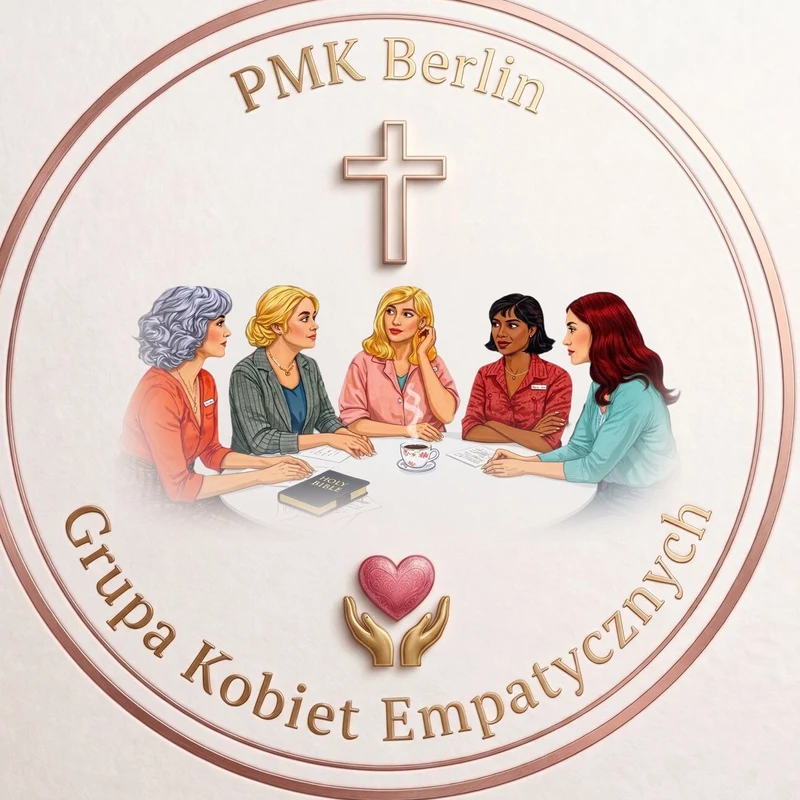
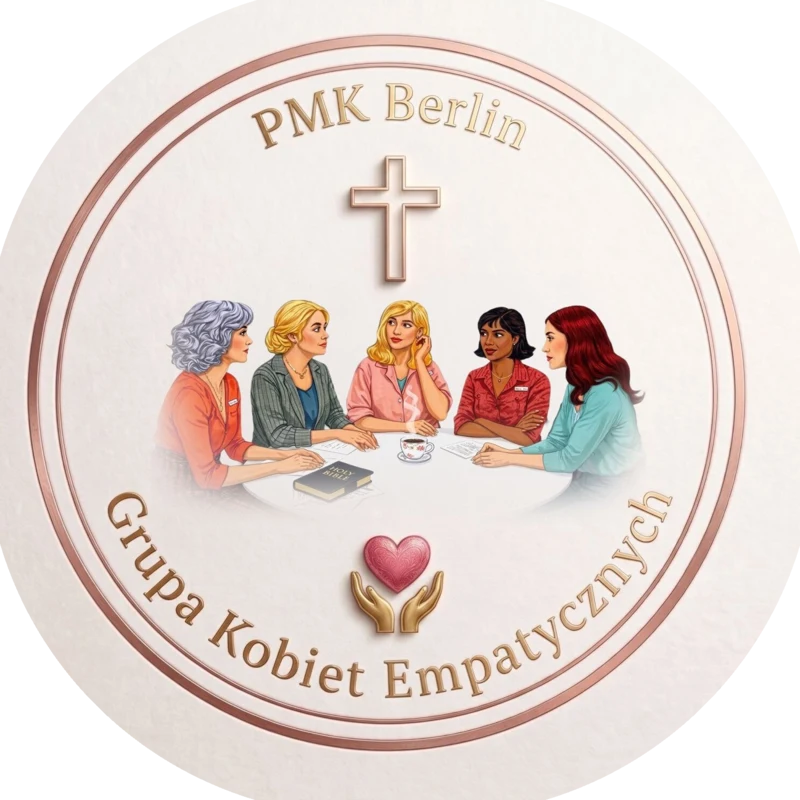
design(grupy): Schola Gradient + Kobiet Kreismaske
User-Feedback umgesetzt:
1) Schola-Karte: flacher #1c3f80 → radialer Gradient
   (#2a5099 Spotlight oben → #1c3f80 Mitte → #122855 unten)
   gibt Tiefe und Eleganz, Logo-BG schmilzt sauber ein
2) Grupa Kobiet: Papier-Hintergrund war als Rechteck sichtbar
   beim Zoomen. Loesung: Kreisfoermige Alpha-Maske im Source-Bild
   (ImageMagick: weisser Kreis mit blur=18 als opacity-mask).
   Resultat: sauberer Kreis-Emblemat ohne Foto-Rand,
   floatet auf jeder BG-Farbe
   - Card-BG zurueck auf Standard-Cream #f5f1ea
   - Datei kleiner (71KB statt 89KB)

diff --git a/index.html b/index.html
@@ -717,7 +717,7 @@
       </a>
       <!-- Schola „Marana Tha“ -->
       <a href="wspolnota-schola.html" class="community-item reveal">
-        <div class="community-image community-image--logo" style="background:#1c3f80;">
+        <div class="community-image community-image--logo" style="background:radial-gradient(circle at 50% 35%, #2a5099 0%, #1c3f80 45%, #122855 100%);">
           <img src="images/grupy/schola-marana-tha.jpg" alt="Logo Schola Marana Tha" loading="lazy" width="1024" height="1024" onerror="this.style.display='none'; this.nextElementSibling.style.display='flex'">
           <div class="community-image-placeholder" style="background: linear-gradient(135deg, #c4a875, #a68b5b); display: none;">
             <span class="community-icon">
@@ -837,7 +837,7 @@
       </a>
       <!-- Grupa Kobiet Empatycznych -->
       <a href="wspolnota-grupa-kobiet.html" class="community-item reveal">
-        <div class="community-image community-image--logo" style="background:#ece6e0;">
+        <div class="community-image community-image--logo" style="background:#f5f1ea;">
           <img src="images/grupy/grupa-kobiet.webp" alt="Logo Grupa Kobiet Empatycznych" loading="lazy" width="800" height="800" onerror="this.style.display='none'; this.nextElementSibling.style.display='flex'">
           <div class="community-image-placeholder" style="background: linear-gradient(135deg, #c4a875, #9a8b76); display: none;">
             <span class="community-icon">

diff --git a/grupy.html b/grupy.html
@@ -150,7 +150,7 @@
       </a>
 
       <a href="wspolnota-schola.html" class="community-item reveal">
-        <div class="community-image community-image--logo" style="background:#1c3f80;">
+        <div class="community-image community-image--logo" style="background:radial-gradient(circle at 50% 35%, #2a5099 0%, #1c3f80 45%, #122855 100%);">
           <img src="images/grupy/schola-marana-tha.jpg" alt="Logo Schola Marana Tha" loading="lazy" width="1024" height="1024" onerror="this.style.display='none'; this.nextElementSibling.style.display='flex'">
           <div class="community-image-placeholder" style="background: linear-gradient(135deg, #c4a875, #a68b5b); display: none;">
             <span class="community-icon">
@@ -270,7 +270,7 @@
       </a>
 
       <a href="wspolnota-grupa-kobiet.html" class="community-item reveal">
-        <div class="community-image community-image--logo" style="background:#ece6e0;">
+        <div class="community-image community-image--logo" style="background:#f5f1ea;">
           <img src="images/grupy/grupa-kobiet.webp" alt="Logo Grupa Kobiet Empatycznych" loading="lazy" width="800" height="800" onerror="this.style.display='none'; this.nextElementSibling.style.display='flex'">
           <div class="community-image-placeholder" style="background: linear-gradient(135deg, #c4a875, #9a8b76); display: none;">
             <span class="community-icon">
